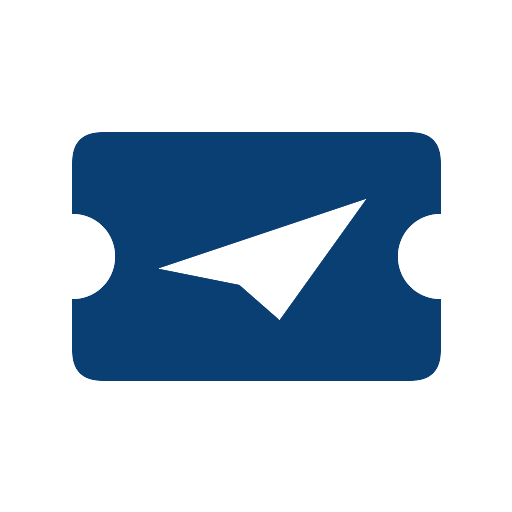
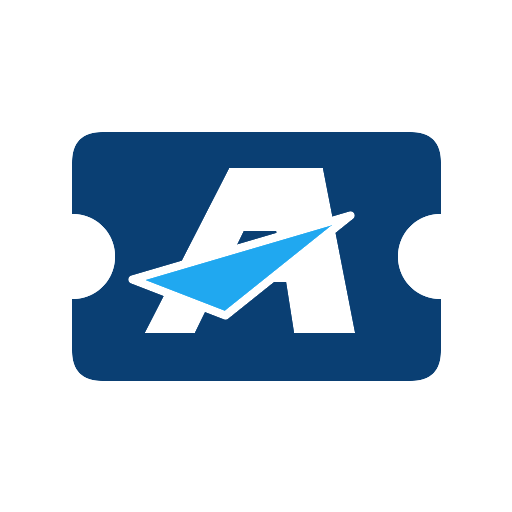
Brand the ticket mark with the ATD A
Replace the paper plane with a white ATD A crossed by the signature blue triangle.

Changed region(s): [[0.25, 0.3125, 0.7188, 0.6562]]

diff --git a/frontend/src/components/Sidebar.jsx b/frontend/src/components/Sidebar.jsx
@@ -208,7 +208,7 @@ export default function Sidebar({
           )}
         >
           <img
-            src="/helpdesk/atd-helpdesk-ticket.svg?v=1"
+            src="/helpdesk/atd-helpdesk-ticket.svg?v=2"
             alt="ATD Helpdesk"
             className="h-11 w-11 rounded-xl bg-white object-contain"
           />
